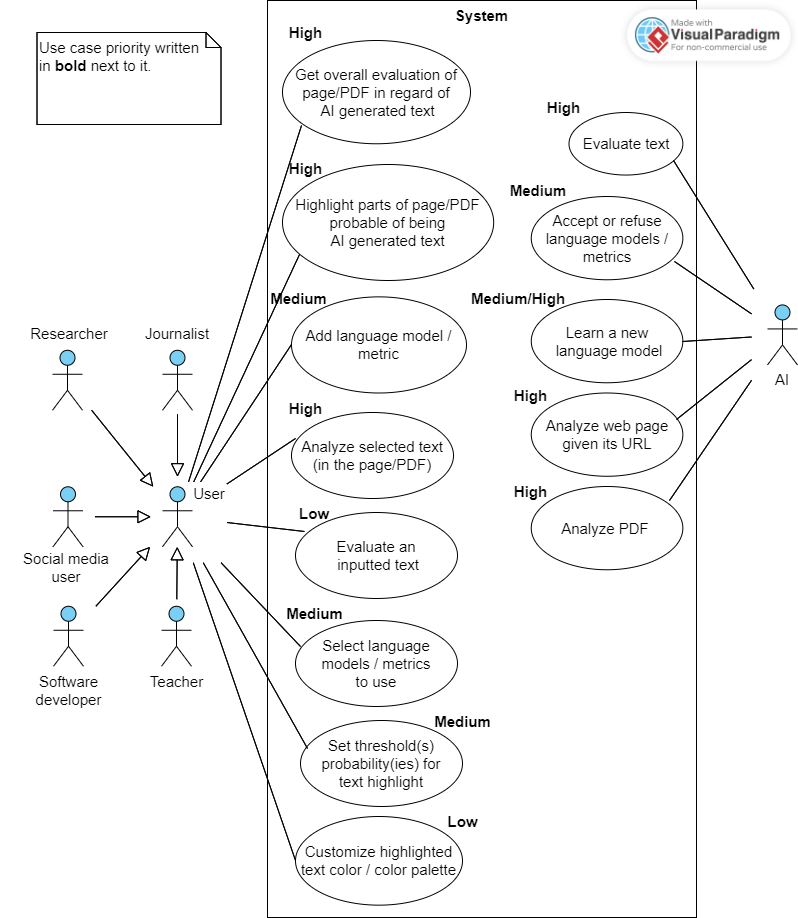
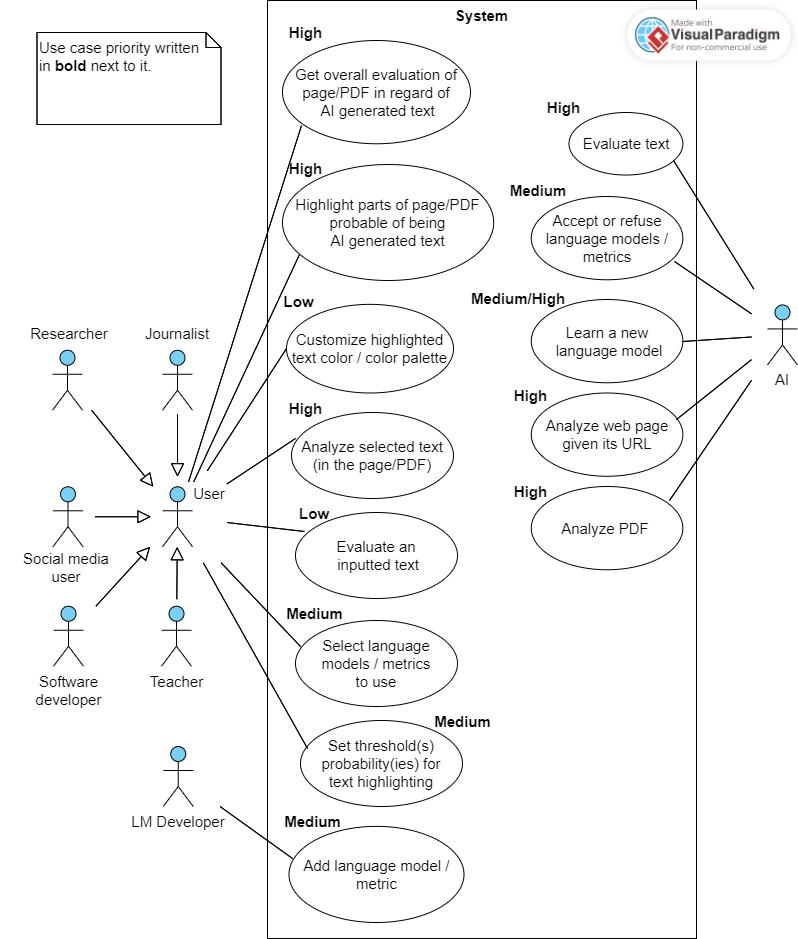
Added LM Dev Actor

diff --git a/Actors.md b/Actors.md
@@ -1,10 +1,8 @@
 **User**
 
-Web users are our target audience: journalists, researchers, social media users, educators, students, developers, etc.
+Web users are our target audience: journalists, researchers, social media users, teachers, students, etc.
 
 With our extension they will be able to, in regards to the currently opened web page or PDF file, get an overall evaluation (for instance, how much of it is AI generated text), check the probability that the currently selected text is AI generated, and have the suspicious parts of the page/PDF highlighted.
-
-They can also upload their own language models and metrics to be used by our AI.
 
 A less important feature is to allow the user to analyze any text he wants by inputting it (indenpendent of the current page/PDF).
 
@@ -17,3 +15,7 @@ It will answer to the user's requests and needs as well as API requests.
 It shall analyze any given text, url or html and return relevant output, such as probabilities of AI generated text, language models and metrics used, etc.
 
 It can also learn a language model and accept/refuse language models. This acceptance/refusal can also be done manually by our dev team.
+
+**LM Developer**
+
+Anyone with a LM can easily add their own language models and metrics to be used by our AI.
